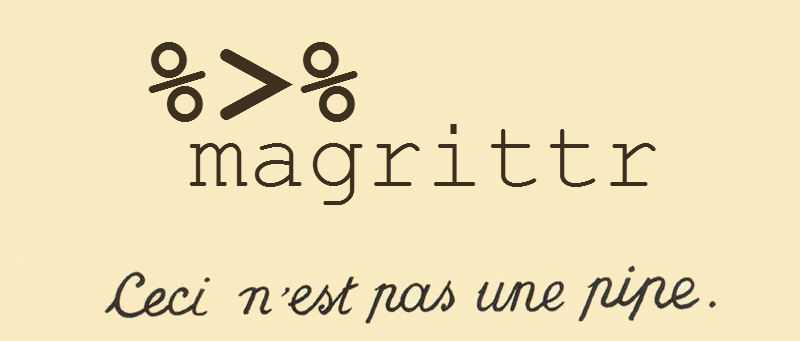
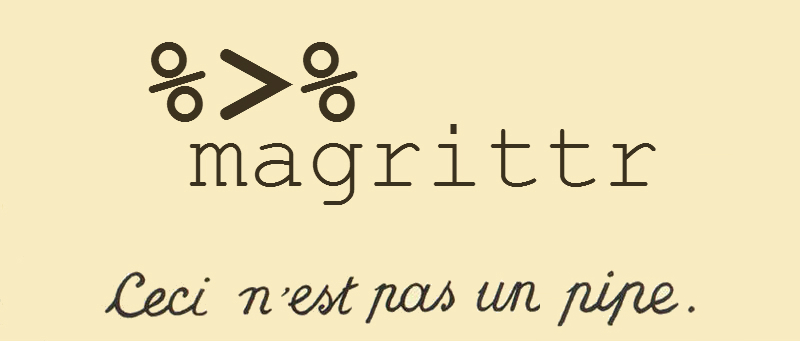
License update + slogan correction
A french guy told me that for this kind of pipe, it should be "UN pipe,
and not "UNE pipe".  Thanks Laurent.

Changed region(s): [[0.6562, 0.7625, 0.9062, 0.9677]]

diff --git a/README.md b/README.md
@@ -1,4 +1,4 @@
-magrittr -  Ceci n'est pas une pipe.
+magrittr -  Ceci n'est pas un pipe.
 ====================================
 
 [![Build Status](https://travis-ci.org/smbache/magrittr.png?branch=master)](https://travis-ci.org/smbache/magrittr)
@@ -11,6 +11,7 @@ in situations of multiple nested function calls.
 It is particularly useful when manipulating data frames etc. 
 The package also contains a few useful aliases that make other R operators
 fit well into the syntax advocated by the package.
+To learn more, see the included vignette.
 
 Installation:
 -------------
